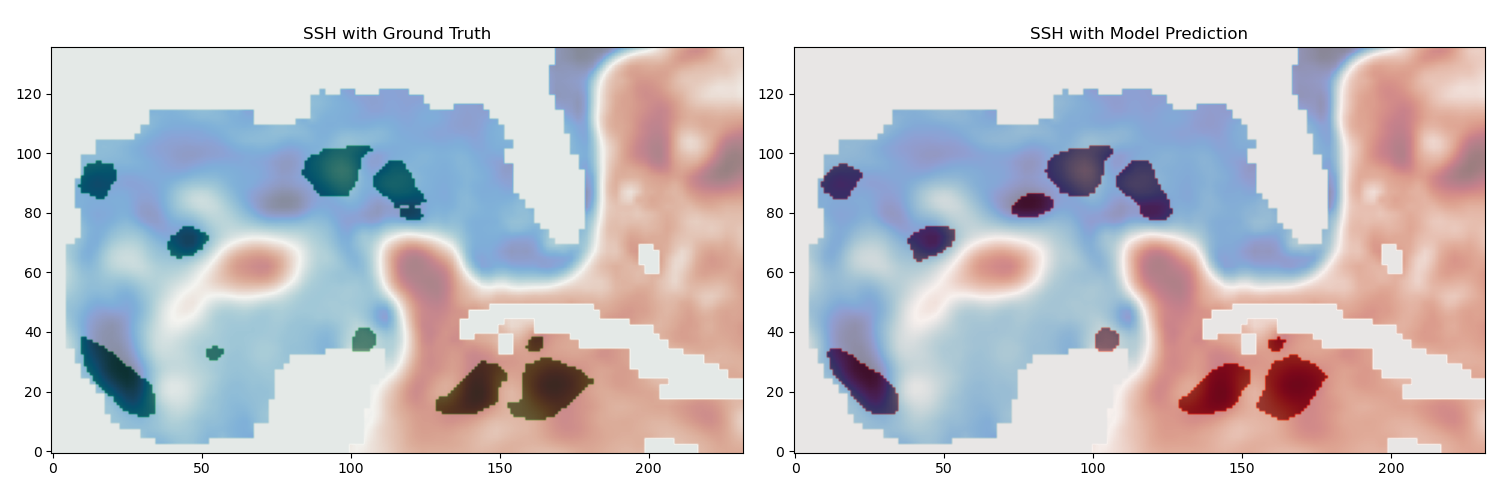
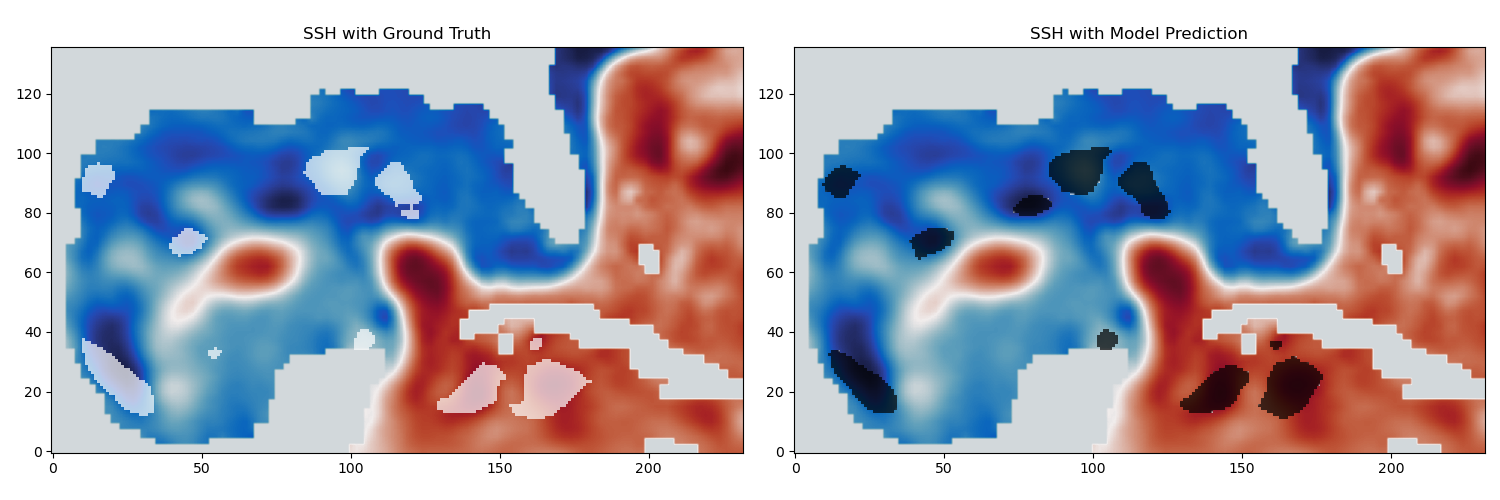
Fixing Readme

diff --git a/viz_utils.py b/viz_utils.py
@@ -29,12 +29,16 @@ def visualize_prediction(input_data_cur_date: np.ndarray,
     # Plot SSH with ground truth overlay
     im1 = ax1.imshow(input_data_cur_date, cmap=cmocean.cm.balance, origin='lower')
     ax1.set_title('SSH with Ground Truth') 
-    ax1.imshow(target > 0.5, cmap='Greens', alpha=0.5, origin='lower')
+    # Create mask for ground truth
+    mask = target > 0.5
+    ax1.imshow(np.ma.masked_where(~mask, target), cmap='Greys', alpha=0.7, origin='lower')
     
     # Plot SSH with prediction overlay
     im2 = ax2.imshow(input_data_cur_date, cmap=cmocean.cm.balance, origin='lower')
     ax2.set_title('SSH with Model Prediction')
-    ax2.imshow(prediction > 0.5, cmap='Reds', alpha=0.5, origin='lower')
+    # Create mask for prediction
+    mask = prediction > 0.5
+    ax2.imshow(np.ma.masked_where(~mask, prediction), cmap='Greys', alpha=0.7, origin='lower')
     
     plt.tight_layout()
     plt.savefig(output_file)
